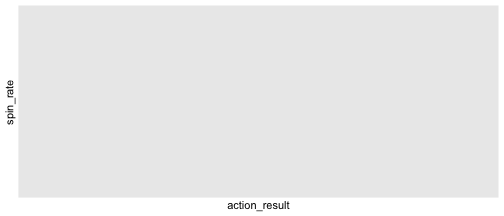
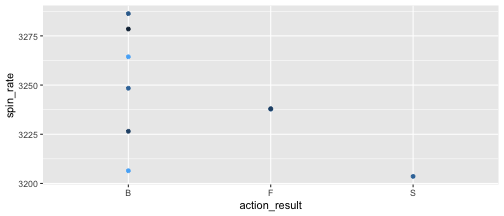
Final changes

diff --git a/03-r-format/knitr/2-dplyr.html b/03-r-format/knitr/2-dplyr.html
@@ -113,7 +113,7 @@ hint: what is the default first argument of the `ggplot` function?
 
 ```r
   pitch %&gt;%
-  filter(spin_rate &gt;= 3300 &amp; pitcher_hand == "L") %&gt;%
+  filter(spin_rate &gt;= 3200 &amp; pitcher_hand == "L") %&gt;%
   ggplot(aes(x=action_result, y=spin_rate)) +
   geom_point(aes(color=playerid)) +
   theme(legend.position = "none")
@@ -129,13 +129,13 @@ hint: what is the default first argument of the `ggplot` function?
 ```r
 library(rbokeh)
  pitch %&gt;%
-  filter(spin_rate &gt;= 3300 &amp; pitcher_hand == "L") %&gt;%
+  filter(spin_rate &gt;= 3200 &amp; pitcher_hand == "L") %&gt;%
   figure() %&gt;%
   ly_points(x = action_result, y = spin_rate, color = playerid, hover = list(playerid, spin_rate, action_result), legend = FALSE) 
 ```
 
-<div id="htmlwidget-50c95fccf3ca90615649" style="width:504px;height:216px;" class="rbokeh html-widget"></div>
-<script type="application/json" data-for="htmlwidget-50c95fccf3ca90615649">{"x":null,"evals":[],"jsHooks":null}</script>
+<div id="htmlwidget-5309a80da70cfbc3d3df" style="width:504px;height:216px;" class="rbokeh html-widget"></div>
+<script type="application/json" data-for="htmlwidget-5309a80da70cfbc3d3df">{"x":{"elementid":"eb458211ed0d55275566c581138f8029","modeltype":"Plot","modelid":"7fc3effddfe546da842b5af3e5a1fc8d","docid":"4b37f0f3193c4c9b37ba51dcf6a5d07b","docs_json":{"4b37f0f3193c4c9b37ba51dcf6a5d07b":{"version":"0.12.5","title":"Bokeh Figure","roots":{"root_ids":["7fc3effddfe546da842b5af3e5a1fc8d"],"references":[{"type":"Plot","id":"7fc3effddfe546da842b5af3e5a1fc8d","attributes":{"id":"7fc3effddfe546da842b5af3e5a1fc8d","sizing_mode":"scale_both","x_range":{"type":"FactorRange","id":"18a0e67de596b7c22d99cb490d3981d7"},"y_range":{"type":"Range1d","id":"1a30386c553e7b6dc0712c0866a2fde3"},"left":[{"type":"LinearAxis","id":"e4358ced8cdf5b41810e7848925d7b98"}],"below":[{"type":"CategoricalAxis","id":"57cad60353505f6a4f39a8a3952ddd4d"}],"right":[],"above":[],"renderers":[{"type":"BoxAnnotation","id":"aec164a9e0f26ebfc42e8b7b5a164f25"},{"type":"GlyphRenderer","id":"5bd5461777a06aeae013e403e9f55070"},{"type":"CategoricalAxis","id":"57cad60353505f6a4f39a8a3952ddd4d"},{"type":"Grid","id":"d0053d54f2a198eea1889f05452c9f02"},{"type":"LinearAxis","id":"e4358ced8cdf5b41810e7848925d7b98"},{"type":"Grid","id":"151b50da6f7c31acc74743e2a63875a4"}],"extra_y_ranges":{},"extra_x_ranges":{},"tags":[],"min_border_left":4,"min_border_right":4,"min_border_top":4,"min_border_bottom":4,"lod_threshold":null,"toolbar":{"type":"Toolbar","id":"212be27681d58a568cafe99e520b06b1"},"tool_events":{"type":"ToolEvents","id":"2c8d72b5e337cb4dd364aa39ea4944cb"}},"subtype":"Figure"},{"type":"Toolbar","id":"212be27681d58a568cafe99e520b06b1","attributes":{"id":"212be27681d58a568cafe99e520b06b1","tags":[],"active_drag":"auto","active_scroll":"auto","active_tap":"auto","tools":[{"type":"PanTool","id":"2817d9662645c2636ded2ff26a74027b"},{"type":"WheelZoomTool","id":"09c993145643d748bf0d31b0922b5902"},{"type":"BoxZoomTool","id":"6c880ddc0c406c2feeb75d9943d4c6eb"},{"type":"ResetTool","id":"73e5b292046e60d39e29dd3ade144fbf"},{"type":"SaveTool","id":"57e7ae25249de037208d72aff8e27bf1"},{"type":"HelpTool","id":"58fc932297d0f9113d48170b912d4927"},{"type":"HoverTool","id":"45f02855ac5a7276f54ae4e0bd510058"}],"logo":null}},{"type":"PanTool","id":"2817d9662645c2636ded2ff26a74027b","attributes":{"id":"2817d9662645c2636ded2ff26a74027b","tags":[],"plot":{"type":"Plot","id":"7fc3effddfe546da842b5af3e5a1fc8d","subtype":"Figure"},"dimensions":"both"}},{"type":"ToolEvents","id":"2c8d72b5e337cb4dd364aa39ea4944cb","attributes":{"id":"2c8d72b5e337cb4dd364aa39ea4944cb","tags":[]},"geometries":[]},{"type":"WheelZoomTool","id":"09c993145643d748bf0d31b0922b5902","attributes":{"id":"09c993145643d748bf0d31b0922b5902","tags":[],"plot":{"type":"Plot","id":"7fc3effddfe546da842b5af3e5a1fc8d","subtype":"Figure"},"dimensions":"both"}},{"type":"BoxAnnotation","id":"aec164a9e0f26ebfc42e8b7b5a164f25","attributes":{"id":"aec164a9e0f26ebfc42e8b7b5a164f25","tags":[],"line_color":{"units":"data","value":"black"},"line_alpha":{"units":"data","value":1},"fill_color":{"units":"data","value":"lightgrey"},"fill_alpha":{"units":"data","value":0.5},"line_dash":[4,4],"line_width":{"units":"data","value":2},"level":"overlay","top_units":"screen","bottom_units":"screen","left_units":"screen","right_units":"screen","render_mode":"css"}},{"type":"BoxZoomTool","id":"6c880ddc0c406c2feeb75d9943d4c6eb","attributes":{"id":"6c880ddc0c406c2feeb75d9943d4c6eb","tags":[],"plot":{"type":"Plot","id":"7fc3effddfe546da842b5af3e5a1fc8d","subtype":"Figure"},"overlay":{"type":"BoxAnnotation","id":"aec164a9e0f26ebfc42e8b7b5a164f25"}}},{"type":"ResetTool","id":"73e5b292046e60d39e29dd3ade144fbf","attributes":{"id":"73e5b292046e60d39e29dd3ade144fbf","tags":[],"plot":{"type":"Plot","id":"7fc3effddfe546da842b5af3e5a1fc8d","subtype":"Figure"}}},{"type":"SaveTool","id":"57e7ae25249de037208d72aff8e27bf1","attributes":{"id":"57e7ae25249de037208d72aff8e27bf1","tags":[],"plot":{"type":"Plot","id":"7fc3effddfe546da842b5af3e5a1fc8d","subtype":"Figure"}}},{"type":"HelpTool","id":"58fc932297d0f9113d48170b912d4927","attributes":{"id":"58fc932297d0f9113d48170b912d4927","tags":[],"plot":{"type":"Plot","id":"7fc3effddfe546da842b5af3e5a1fc8d","subtype":"Figure"},"redirect":"https://hafen.github.io/rbokeh/","help_tooltip":"Click to learn more about rbokeh."}},{"type":"HoverTool","id":"45f02855ac5a7276f54ae4e0bd510058","attributes":{"id":"45f02855ac5a7276f54ae4e0bd510058","tags":[],"plot":{"type":"Plot","id":"7fc3effddfe546da842b5af3e5a1fc8d","subtype":"Figure"},"renderers":[{"type":"GlyphRenderer","id":"5bd5461777a06aeae013e403e9f55070"}],"names":[],"anchor":"center","attachment":"horizontal","line_policy":"prev","mode":"mouse","point_policy":"snap_to_data","tooltips":[["playerid","@hover_col_1"],["spin_rate","@hover_col_2"],["action_result","@hover_col_3"]]}},{"type":"ColumnDataSource","id":"d1dd43101b85fe58581fcc5ce4696eb4","attributes":{"id":"d1dd43101b85fe58581fcc5ce4696eb4","tags":[],"column_names":["x","y","line_color","fill_color","hover_col_1","hover_col_2","hover_col_3"],"selected":[],"data":{"x":["B","B","S","F","B","F","B","B","B"],"y":[3286.313,3248.3821,3203.5969,3237.7629,3278.4861,3237.9861,3226.5071,3206.4629,3264.386],"line_color":["#238B45","#0B7734","#0B7734","#0B7734","#66C2A4","#37A265","#37A265","#00441B","#00441B"],"fill_color":["#238B45","#0B7734","#0B7734","#0B7734","#66C2A4","#37A265","#37A265","#00441B","#00441B"],"hover_col_1":[" 7291"," 8247"," 8247"," 8247","  607"," 4629"," 4629","13586","13586"],"hover_col_2":["3286.313","3248.382","3203.597","3237.763","3278.486","3237.986","3226.507","3206.463","3264.386"],"hover_col_3":["B","B","S","F","B","F","B","B","B"]}}},{"type":"Circle","id":"de3cc4a9888b8dd9f56ce54f2cd5cd37","attributes":{"id":"de3cc4a9888b8dd9f56ce54f2cd5cd37","tags":[],"size":{"units":"screen","value":10},"line_alpha":{"units":"data","value":1},"fill_alpha":{"units":"data","value":0.5},"x":{"units":"data","field":"x"},"y":{"units":"data","field":"y"},"line_color":{"units":"data","field":"line_color"},"fill_color":{"units":"data","field":"fill_color"}}},{"type":"Circle","id":"f7754df41d1e00cedd1052e621f2d6bd","attributes":{"id":"f7754df41d1e00cedd1052e621f2d6bd","tags":[],"size":{"units":"screen","value":10},"line_alpha":{"units":"data","value":1},"fill_alpha":{"units":"data","value":0.5},"x":{"units":"data","field":"x"},"y":{"units":"data","field":"y"},"line_color":{"units":"data","value":"#e1e1e1"},"fill_color":{"units":"data","value":"#e1e1e1"}}},{"type":"Circle","id":"ab4373c69fbf11797261b382eee563ad","attributes":{"id":"ab4373c69fbf11797261b382eee563ad","tags":[],"size":{"units":"screen","value":10},"line_alpha":{"units":"data","value":1},"fill_alpha":{"units":"data","value":1},"x":{"units":"data","field":"x"},"y":{"units":"data","field":"y"},"line_color":{"units":"data","field":"line_color"},"fill_color":{"units":"data","field":"fill_color"}}},{"type":"GlyphRenderer","id":"5bd5461777a06aeae013e403e9f55070","attributes":{"id":"5bd5461777a06aeae013e403e9f55070","tags":[],"selection_glyph":null,"nonselection_glyph":{"type":"Circle","id":"f7754df41d1e00cedd1052e621f2d6bd"},"hover_glyph":{"type":"Circle","id":"ab4373c69fbf11797261b382eee563ad"},"name":null,"data_source":{"type":"ColumnDataSource","id":"d1dd43101b85fe58581fcc5ce4696eb4"},"glyph":{"type":"Circle","id":"de3cc4a9888b8dd9f56ce54f2cd5cd37"}}},{"type":"FactorRange","id":"18a0e67de596b7c22d99cb490d3981d7","attributes":{"id":"18a0e67de596b7c22d99cb490d3981d7","tags":[],"factors":["B","F","S"]}},{"type":"Range1d","id":"1a30386c553e7b6dc0712c0866a2fde3","attributes":{"id":"1a30386c553e7b6dc0712c0866a2fde3","tags":[],"start":3197.806773,"end":3292.103127}},{"type":"CategoricalAxis","id":"57cad60353505f6a4f39a8a3952ddd4d","attributes":{"id":"57cad60353505f6a4f39a8a3952ddd4d","tags":[],"plot":{"type":"Plot","id":"7fc3effddfe546da842b5af3e5a1fc8d","subtype":"Figure"},"axis_label":"action_result","formatter":{"type":"CategoricalTickFormatter","id":"cf40d64c012564956c255787ab868536"},"ticker":{"type":"CategoricalTicker","id":"b7dc5773fb2258ab68afdddc25d0c5d6"},"visible":true,"axis_label_text_font_size":"12pt"}},{"type":"CategoricalTickFormatter","id":"cf40d64c012564956c255787ab868536","attributes":{"id":"cf40d64c012564956c255787ab868536","tags":[]}},{"type":"CategoricalTicker","id":"b7dc5773fb2258ab68afdddc25d0c5d6","attributes":{"id":"b7dc5773fb2258ab68afdddc25d0c5d6","tags":[]}},{"type":"Grid","id":"d0053d54f2a198eea1889f05452c9f02","attributes":{"id":"d0053d54f2a198eea1889f05452c9f02","tags":[],"dimension":0,"plot":{"type":"Plot","id":"7fc3effddfe546da842b5af3e5a1fc8d","subtype":"Figure"},"ticker":{"type":"CategoricalTicker","id":"b7dc5773fb2258ab68afdddc25d0c5d6"}}},{"type":"LinearAxis","id":"e4358ced8cdf5b41810e7848925d7b98","attributes":{"id":"e4358ced8cdf5b41810e7848925d7b98","tags":[],"plot":{"type":"Plot","id":"7fc3effddfe546da842b5af3e5a1fc8d","subtype":"Figure"},"axis_label":"spin_rate","formatter":{"type":"BasicTickFormatter","id":"f84364d2d25a43acad6eec412783bb8a"},"ticker":{"type":"BasicTicker","id":"d386bab4cec657383e1e1b0fafbfd417"},"visible":true,"axis_label_text_font_size":"12pt"}},{"type":"BasicTickFormatter","id":"f84364d2d25a43acad6eec412783bb8a","attributes":{"id":"f84364d2d25a43acad6eec412783bb8a","tags":[]}},{"type":"BasicTicker","id":"d386bab4cec657383e1e1b0fafbfd417","attributes":{"id":"d386bab4cec657383e1e1b0fafbfd417","tags":[],"num_minor_ticks":5}},{"type":"Grid","id":"151b50da6f7c31acc74743e2a63875a4","attributes":{"id":"151b50da6f7c31acc74743e2a63875a4","tags":[],"dimension":1,"plot":{"type":"Plot","id":"7fc3effddfe546da842b5af3e5a1fc8d","subtype":"Figure"},"ticker":{"type":"BasicTicker","id":"d386bab4cec657383e1e1b0fafbfd417"}}}]}}},"debug":false},"evals":[],"jsHooks":[]}</script>
 
 ---
 
@@ -400,7 +400,7 @@ pitch %&gt;%
 
 ---
 
-## Caution with pip operator
+## Caution with pipe operator
 
 Why does 
 
@@ -561,8 +561,8 @@ figure() %&gt;%
             legend = FALSE)
 ```
 
-<div id="htmlwidget-6a41930a7b18b4e9a807" style="width:504px;height:216px;" class="rbokeh html-widget"></div>
-<script type="application/json" data-for="htmlwidget-6a41930a7b18b4e9a807">{"x":{"elementid":"3a79f523326b62ea38781231771a2b13","modeltype":"Plot","modelid":"0d13a62949d6ef35e39e83eea517171b","docid":"b0b7d6717cf768ef54191d6c63213f8a","docs_json":{"b0b7d6717cf768ef54191d6c63213f8a":{"version":"0.12.5","title":"Bokeh Figure","roots":{"root_ids":["0d13a62949d6ef35e39e83eea517171b"],"references":[{"type":"Plot","id":"0d13a62949d6ef35e39e83eea517171b","attributes":{"id":"0d13a62949d6ef35e39e83eea517171b","sizing_mode":"scale_both","x_range":{"type":"Range1d","id":"b896fae42bf78867c67e4cfa25cabe9f"},"y_range":{"type":"Range1d","id":"7697fac9959d18dc6d8d60d2248c1c87"},"left":[{"type":"LinearAxis","id":"5706bb902d93b055f17ca87f837750c4"}],"below":[{"type":"LinearAxis","id":"98e9199dab99b8cfc51b4c4323ad16a3"}],"right":[],"above":[],"renderers":[{"type":"BoxAnnotation","id":"313ef485983cefd04f3d9c78f6a41921"},{"type":"GlyphRenderer","id":"56630eac3eb3ac26bdeb96b7526faf38"},{"type":"LinearAxis","id":"98e9199dab99b8cfc51b4c4323ad16a3"},{"type":"Grid","id":"e86653b9c3c8bc0c21124e5bd27631a9"},{"type":"LinearAxis","id":"5706bb902d93b055f17ca87f837750c4"},{"type":"Grid","id":"5448eb647c75b5625589c6f5306324f5"}],"extra_y_ranges":{},"extra_x_ranges":{},"tags":[],"min_border_left":4,"min_border_right":4,"min_border_top":4,"min_border_bottom":4,"lod_threshold":null,"toolbar":{"type":"Toolbar","id":"7c1b07a6ceb9558de9a5c14356a63c90"},"tool_events":{"type":"ToolEvents","id":"10a6403d4a40a392b90acc400b7b1685"}},"subtype":"Figure"},{"type":"Toolbar","id":"7c1b07a6ceb9558de9a5c14356a63c90","attributes":{"id":"7c1b07a6ceb9558de9a5c14356a63c90","tags":[],"active_drag":"auto","active_scroll":"auto","active_tap":"auto","tools":[{"type":"PanTool","id":"887def7142c8c38a102078cf5e2744f7"},{"type":"WheelZoomTool","id":"80e4988225df0ae4c3706638ea913d10"},{"type":"BoxZoomTool","id":"5d132ceffc2010b51d936371e16a4811"},{"type":"ResetTool","id":"cca6b03e54ab3cf3fb7c055946b806c9"},{"type":"SaveTool","id":"51f52fee9c9debd6067d66e332d594c4"},{"type":"HelpTool","id":"7a74b26b3f93a6e855c563eb1beefb6d"},{"type":"HoverTool","id":"d14a475b91037a3094563f6d5105378b"}],"logo":null}},{"type":"PanTool","id":"887def7142c8c38a102078cf5e2744f7","attributes":{"id":"887def7142c8c38a102078cf5e2744f7","tags":[],"plot":{"type":"Plot","id":"0d13a62949d6ef35e39e83eea517171b","subtype":"Figure"},"dimensions":"both"}},{"type":"ToolEvents","id":"10a6403d4a40a392b90acc400b7b1685","attributes":{"id":"10a6403d4a40a392b90acc400b7b1685","tags":[]},"geometries":[]},{"type":"WheelZoomTool","id":"80e4988225df0ae4c3706638ea913d10","attributes":{"id":"80e4988225df0ae4c3706638ea913d10","tags":[],"plot":{"type":"Plot","id":"0d13a62949d6ef35e39e83eea517171b","subtype":"Figure"},"dimensions":"both"}},{"type":"BoxAnnotation","id":"313ef485983cefd04f3d9c78f6a41921","attributes":{"id":"313ef485983cefd04f3d9c78f6a41921","tags":[],"line_color":{"units":"data","value":"black"},"line_alpha":{"units":"data","value":1},"fill_color":{"units":"data","value":"lightgrey"},"fill_alpha":{"units":"data","value":0.5},"line_dash":[4,4],"line_width":{"units":"data","value":2},"level":"overlay","top_units":"screen","bottom_units":"screen","left_units":"screen","right_units":"screen","render_mode":"css"}},{"type":"BoxZoomTool","id":"5d132ceffc2010b51d936371e16a4811","attributes":{"id":"5d132ceffc2010b51d936371e16a4811","tags":[],"plot":{"type":"Plot","id":"0d13a62949d6ef35e39e83eea517171b","subtype":"Figure"},"overlay":{"type":"BoxAnnotation","id":"313ef485983cefd04f3d9c78f6a41921"}}},{"type":"ResetTool","id":"cca6b03e54ab3cf3fb7c055946b806c9","attributes":{"id":"cca6b03e54ab3cf3fb7c055946b806c9","tags":[],"plot":{"type":"Plot","id":"0d13a62949d6ef35e39e83eea517171b","subtype":"Figure"}}},{"type":"SaveTool","id":"51f52fee9c9debd6067d66e332d594c4","attributes":{"id":"51f52fee9c9debd6067d66e332d594c4","tags":[],"plot":{"type":"Plot","id":"0d13a62949d6ef35e39e83eea517171b","subtype":"Figure"}}},{"type":"HelpTool","id":"7a74b26b3f93a6e855c563eb1beefb6d","attributes":{"id":"7a74b26b3f93a6e855c563eb1beefb6d","tags":[],"plot":{"type":"Plot","id":"0d13a62949d6ef35e39e83eea517171b","subtype":"Figure"},"redirect":"https://hafen.github.io/rbokeh/","help_tooltip":"Click to learn more about rbokeh."}},{"type":"HoverTool","id":"d14a475b91037a3094563f6d5105378b","attributes":{"id":"d14a475b91037a3094563f6d5105378b","tags":[],"plot":{"type":"Plot","id":"0d13a62949d6ef35e39e83eea517171b","subtype":"Figure"},"renderers":[{"type":"GlyphRenderer","id":"56630eac3eb3ac26bdeb96b7526faf38"}],"names":[],"anchor":"center","attachment":"horizontal","line_policy":"prev","mode":"mouse","point_policy":"snap_to_data","tooltips":[["playerid","@hover_col_1"],["totalSSCU","@hover_col_2"],["percentSSCU","@hover_col_3"]]}},{"type":"ColumnDataSource","id":"f27e9265a947b5605a8c2e796ada5105","attributes":{"id":"f27e9265a947b5605a8c2e796ada5105","tags":[],"column_names":["x","y","line_color","fill_color","hover_col_1","hover_col_2","hover_col_3"],"selected":[],"data":{"x":[0.666666666666667,0.634615384615385,0.621848739495798,0.603351955307263,0.543814432989691,0.53030303030303],"y":[60,66,74,108,211,70],"line_color":["#66C2A4","#3CA96F","#50B689","#05712F","#00441B","#50B689"],"fill_color":["#66C2A4","#3CA96F","#50B689","#05712F","#00441B","#50B689"],"hover_col_1":[" 1030"," 4878"," 2850","10045","14344"," 3138"],"hover_col_2":[" 60"," 66"," 74","108","211"," 70"],"hover_col_3":["0.6666667","0.6346154","0.6218487","0.6033520","0.5438144","0.5303030"]}}},{"type":"Circle","id":"2a086160ce68d0e68fd2391890c6cce1","attributes":{"id":"2a086160ce68d0e68fd2391890c6cce1","tags":[],"size":{"units":"screen","value":10},"line_alpha":{"units":"data","value":1},"fill_alpha":{"units":"data","value":0.5},"x":{"units":"data","field":"x"},"y":{"units":"data","field":"y"},"line_color":{"units":"data","field":"line_color"},"fill_color":{"units":"data","field":"fill_color"}}},{"type":"Circle","id":"224856d955035f9d6b0b313e856b2d99","attributes":{"id":"224856d955035f9d6b0b313e856b2d99","tags":[],"size":{"units":"screen","value":10},"line_alpha":{"units":"data","value":1},"fill_alpha":{"units":"data","value":0.5},"x":{"units":"data","field":"x"},"y":{"units":"data","field":"y"},"line_color":{"units":"data","value":"#e1e1e1"},"fill_color":{"units":"data","value":"#e1e1e1"}}},{"type":"Circle","id":"6230769c3400ab62bffdd2e870db58bb","attributes":{"id":"6230769c3400ab62bffdd2e870db58bb","tags":[],"size":{"units":"screen","value":10},"line_alpha":{"units":"data","value":1},"fill_alpha":{"units":"data","value":1},"x":{"units":"data","field":"x"},"y":{"units":"data","field":"y"},"line_color":{"units":"data","field":"line_color"},"fill_color":{"units":"data","field":"fill_color"}}},{"type":"GlyphRenderer","id":"56630eac3eb3ac26bdeb96b7526faf38","attributes":{"id":"56630eac3eb3ac26bdeb96b7526faf38","tags":[],"selection_glyph":null,"nonselection_glyph":{"type":"Circle","id":"224856d955035f9d6b0b313e856b2d99"},"hover_glyph":{"type":"Circle","id":"6230769c3400ab62bffdd2e870db58bb"},"name":null,"data_source":{"type":"ColumnDataSource","id":"f27e9265a947b5605a8c2e796ada5105"},"glyph":{"type":"Circle","id":"2a086160ce68d0e68fd2391890c6cce1"}}},{"type":"Range1d","id":"b896fae42bf78867c67e4cfa25cabe9f","attributes":{"id":"b896fae42bf78867c67e4cfa25cabe9f","tags":[],"start":0.520757575757576,"end":0.676212121212121}},{"type":"Range1d","id":"7697fac9959d18dc6d8d60d2248c1c87","attributes":{"id":"7697fac9959d18dc6d8d60d2248c1c87","tags":[],"start":49.43,"end":221.57}},{"type":"LinearAxis","id":"98e9199dab99b8cfc51b4c4323ad16a3","attributes":{"id":"98e9199dab99b8cfc51b4c4323ad16a3","tags":[],"plot":{"type":"Plot","id":"0d13a62949d6ef35e39e83eea517171b","subtype":"Figure"},"axis_label":"percentSSCU","formatter":{"type":"BasicTickFormatter","id":"06939d15da54e4707e96b530af8d1b1a"},"ticker":{"type":"BasicTicker","id":"7f8070580a30aa1ec681ed93105bc1dc"},"visible":true,"axis_label_text_font_size":"12pt"}},{"type":"BasicTickFormatter","id":"06939d15da54e4707e96b530af8d1b1a","attributes":{"id":"06939d15da54e4707e96b530af8d1b1a","tags":[]}},{"type":"BasicTicker","id":"7f8070580a30aa1ec681ed93105bc1dc","attributes":{"id":"7f8070580a30aa1ec681ed93105bc1dc","tags":[],"num_minor_ticks":5}},{"type":"Grid","id":"e86653b9c3c8bc0c21124e5bd27631a9","attributes":{"id":"e86653b9c3c8bc0c21124e5bd27631a9","tags":[],"dimension":0,"plot":{"type":"Plot","id":"0d13a62949d6ef35e39e83eea517171b","subtype":"Figure"},"ticker":{"type":"BasicTicker","id":"7f8070580a30aa1ec681ed93105bc1dc"}}},{"type":"LinearAxis","id":"5706bb902d93b055f17ca87f837750c4","attributes":{"id":"5706bb902d93b055f17ca87f837750c4","tags":[],"plot":{"type":"Plot","id":"0d13a62949d6ef35e39e83eea517171b","subtype":"Figure"},"axis_label":"totalSSCU","formatter":{"type":"BasicTickFormatter","id":"2bd2ad1b87b7a26c3216f86caf2ef14b"},"ticker":{"type":"BasicTicker","id":"7755222b34e96260368471c624447582"},"visible":true,"axis_label_text_font_size":"12pt"}},{"type":"BasicTickFormatter","id":"2bd2ad1b87b7a26c3216f86caf2ef14b","attributes":{"id":"2bd2ad1b87b7a26c3216f86caf2ef14b","tags":[]}},{"type":"BasicTicker","id":"7755222b34e96260368471c624447582","attributes":{"id":"7755222b34e96260368471c624447582","tags":[],"num_minor_ticks":5}},{"type":"Grid","id":"5448eb647c75b5625589c6f5306324f5","attributes":{"id":"5448eb647c75b5625589c6f5306324f5","tags":[],"dimension":1,"plot":{"type":"Plot","id":"0d13a62949d6ef35e39e83eea517171b","subtype":"Figure"},"ticker":{"type":"BasicTicker","id":"7755222b34e96260368471c624447582"}}}]}}},"debug":false},"evals":[],"jsHooks":[]}</script>
+<div id="htmlwidget-2c902950498c73fc69e4" style="width:504px;height:216px;" class="rbokeh html-widget"></div>
+<script type="application/json" data-for="htmlwidget-2c902950498c73fc69e4">{"x":{"elementid":"66c53ced6298bf5a152c009e08717d58","modeltype":"Plot","modelid":"27bc7318b883398b485e5d5454f73cb8","docid":"782167e567e5c70d99e36d0ea6e908bc","docs_json":{"782167e567e5c70d99e36d0ea6e908bc":{"version":"0.12.5","title":"Bokeh Figure","roots":{"root_ids":["27bc7318b883398b485e5d5454f73cb8"],"references":[{"type":"Plot","id":"27bc7318b883398b485e5d5454f73cb8","attributes":{"id":"27bc7318b883398b485e5d5454f73cb8","sizing_mode":"scale_both","x_range":{"type":"Range1d","id":"1a208dfae2b337b7b30373d9127e3d8c"},"y_range":{"type":"Range1d","id":"8734987c46c0b002d1f5ff5b1809e065"},"left":[{"type":"LinearAxis","id":"c0a984038f931a4bb61b82f5950ebdd3"}],"below":[{"type":"LinearAxis","id":"736dd47c1bc1a667eb02c855e7db9c8a"}],"right":[],"above":[],"renderers":[{"type":"BoxAnnotation","id":"dc95b77e3d96d74cc6270367ca5d12a0"},{"type":"GlyphRenderer","id":"b159bc00d7b4c9f93c331b26a12bba4a"},{"type":"LinearAxis","id":"736dd47c1bc1a667eb02c855e7db9c8a"},{"type":"Grid","id":"a94755baf30577e265a87db06d6768e5"},{"type":"LinearAxis","id":"c0a984038f931a4bb61b82f5950ebdd3"},{"type":"Grid","id":"6f0753735467e680d8ec3fc94b152f11"}],"extra_y_ranges":{},"extra_x_ranges":{},"tags":[],"min_border_left":4,"min_border_right":4,"min_border_top":4,"min_border_bottom":4,"lod_threshold":null,"toolbar":{"type":"Toolbar","id":"987c39236d7c2dca3848c9bca7761fe7"},"tool_events":{"type":"ToolEvents","id":"e48953b5b6ef1f4205a50e49e61727c5"}},"subtype":"Figure"},{"type":"Toolbar","id":"987c39236d7c2dca3848c9bca7761fe7","attributes":{"id":"987c39236d7c2dca3848c9bca7761fe7","tags":[],"active_drag":"auto","active_scroll":"auto","active_tap":"auto","tools":[{"type":"PanTool","id":"6bcea110f17e2fe95022622be618a1db"},{"type":"WheelZoomTool","id":"7c44cd5f2147a2c49ed43947f576b93a"},{"type":"BoxZoomTool","id":"cb7c20642a53f191833667cf46fee123"},{"type":"ResetTool","id":"9986aa4258f636b0d80d5d4bc51f679e"},{"type":"SaveTool","id":"e53bd6064d75812fe6526cf310f2e434"},{"type":"HelpTool","id":"8a07e651a4d545ea8821bd4d68c4f4c0"},{"type":"HoverTool","id":"babeccf7e7d20e060c6d283854e78e7a"}],"logo":null}},{"type":"PanTool","id":"6bcea110f17e2fe95022622be618a1db","attributes":{"id":"6bcea110f17e2fe95022622be618a1db","tags":[],"plot":{"type":"Plot","id":"27bc7318b883398b485e5d5454f73cb8","subtype":"Figure"},"dimensions":"both"}},{"type":"ToolEvents","id":"e48953b5b6ef1f4205a50e49e61727c5","attributes":{"id":"e48953b5b6ef1f4205a50e49e61727c5","tags":[]},"geometries":[]},{"type":"WheelZoomTool","id":"7c44cd5f2147a2c49ed43947f576b93a","attributes":{"id":"7c44cd5f2147a2c49ed43947f576b93a","tags":[],"plot":{"type":"Plot","id":"27bc7318b883398b485e5d5454f73cb8","subtype":"Figure"},"dimensions":"both"}},{"type":"BoxAnnotation","id":"dc95b77e3d96d74cc6270367ca5d12a0","attributes":{"id":"dc95b77e3d96d74cc6270367ca5d12a0","tags":[],"line_color":{"units":"data","value":"black"},"line_alpha":{"units":"data","value":1},"fill_color":{"units":"data","value":"lightgrey"},"fill_alpha":{"units":"data","value":0.5},"line_dash":[4,4],"line_width":{"units":"data","value":2},"level":"overlay","top_units":"screen","bottom_units":"screen","left_units":"screen","right_units":"screen","render_mode":"css"}},{"type":"BoxZoomTool","id":"cb7c20642a53f191833667cf46fee123","attributes":{"id":"cb7c20642a53f191833667cf46fee123","tags":[],"plot":{"type":"Plot","id":"27bc7318b883398b485e5d5454f73cb8","subtype":"Figure"},"overlay":{"type":"BoxAnnotation","id":"dc95b77e3d96d74cc6270367ca5d12a0"}}},{"type":"ResetTool","id":"9986aa4258f636b0d80d5d4bc51f679e","attributes":{"id":"9986aa4258f636b0d80d5d4bc51f679e","tags":[],"plot":{"type":"Plot","id":"27bc7318b883398b485e5d5454f73cb8","subtype":"Figure"}}},{"type":"SaveTool","id":"e53bd6064d75812fe6526cf310f2e434","attributes":{"id":"e53bd6064d75812fe6526cf310f2e434","tags":[],"plot":{"type":"Plot","id":"27bc7318b883398b485e5d5454f73cb8","subtype":"Figure"}}},{"type":"HelpTool","id":"8a07e651a4d545ea8821bd4d68c4f4c0","attributes":{"id":"8a07e651a4d545ea8821bd4d68c4f4c0","tags":[],"plot":{"type":"Plot","id":"27bc7318b883398b485e5d5454f73cb8","subtype":"Figure"},"redirect":"https://hafen.github.io/rbokeh/","help_tooltip":"Click to learn more about rbokeh."}},{"type":"HoverTool","id":"babeccf7e7d20e060c6d283854e78e7a","attributes":{"id":"babeccf7e7d20e060c6d283854e78e7a","tags":[],"plot":{"type":"Plot","id":"27bc7318b883398b485e5d5454f73cb8","subtype":"Figure"},"renderers":[{"type":"GlyphRenderer","id":"b159bc00d7b4c9f93c331b26a12bba4a"}],"names":[],"anchor":"center","attachment":"horizontal","line_policy":"prev","mode":"mouse","point_policy":"snap_to_data","tooltips":[["playerid","@hover_col_1"],["totalSSCU","@hover_col_2"],["percentSSCU","@hover_col_3"]]}},{"type":"ColumnDataSource","id":"f059a816f20f4d226fee1ec2a6bd532b","attributes":{"id":"f059a816f20f4d226fee1ec2a6bd532b","tags":[],"column_names":["x","y","line_color","fill_color","hover_col_1","hover_col_2","hover_col_3"],"selected":[],"data":{"x":[0.666666666666667,0.634615384615385,0.621848739495798,0.603351955307263,0.543814432989691,0.53030303030303],"y":[60,66,74,108,211,70],"line_color":["#66C2A4","#3CA96F","#50B689","#05712F","#00441B","#50B689"],"fill_color":["#66C2A4","#3CA96F","#50B689","#05712F","#00441B","#50B689"],"hover_col_1":[" 1030"," 4878"," 2850","10045","14344"," 3138"],"hover_col_2":[" 60"," 66"," 74","108","211"," 70"],"hover_col_3":["0.6666667","0.6346154","0.6218487","0.6033520","0.5438144","0.5303030"]}}},{"type":"Circle","id":"a888dceab7b13dbf1087d6cddbe6a6b9","attributes":{"id":"a888dceab7b13dbf1087d6cddbe6a6b9","tags":[],"size":{"units":"screen","value":10},"line_alpha":{"units":"data","value":1},"fill_alpha":{"units":"data","value":0.5},"x":{"units":"data","field":"x"},"y":{"units":"data","field":"y"},"line_color":{"units":"data","field":"line_color"},"fill_color":{"units":"data","field":"fill_color"}}},{"type":"Circle","id":"3f623b107173d4cb44f38495738c33ae","attributes":{"id":"3f623b107173d4cb44f38495738c33ae","tags":[],"size":{"units":"screen","value":10},"line_alpha":{"units":"data","value":1},"fill_alpha":{"units":"data","value":0.5},"x":{"units":"data","field":"x"},"y":{"units":"data","field":"y"},"line_color":{"units":"data","value":"#e1e1e1"},"fill_color":{"units":"data","value":"#e1e1e1"}}},{"type":"Circle","id":"69e88dca5a835ce6b26376340a26c0e5","attributes":{"id":"69e88dca5a835ce6b26376340a26c0e5","tags":[],"size":{"units":"screen","value":10},"line_alpha":{"units":"data","value":1},"fill_alpha":{"units":"data","value":1},"x":{"units":"data","field":"x"},"y":{"units":"data","field":"y"},"line_color":{"units":"data","field":"line_color"},"fill_color":{"units":"data","field":"fill_color"}}},{"type":"GlyphRenderer","id":"b159bc00d7b4c9f93c331b26a12bba4a","attributes":{"id":"b159bc00d7b4c9f93c331b26a12bba4a","tags":[],"selection_glyph":null,"nonselection_glyph":{"type":"Circle","id":"3f623b107173d4cb44f38495738c33ae"},"hover_glyph":{"type":"Circle","id":"69e88dca5a835ce6b26376340a26c0e5"},"name":null,"data_source":{"type":"ColumnDataSource","id":"f059a816f20f4d226fee1ec2a6bd532b"},"glyph":{"type":"Circle","id":"a888dceab7b13dbf1087d6cddbe6a6b9"}}},{"type":"Range1d","id":"1a208dfae2b337b7b30373d9127e3d8c","attributes":{"id":"1a208dfae2b337b7b30373d9127e3d8c","tags":[],"start":0.520757575757576,"end":0.676212121212121}},{"type":"Range1d","id":"8734987c46c0b002d1f5ff5b1809e065","attributes":{"id":"8734987c46c0b002d1f5ff5b1809e065","tags":[],"start":49.43,"end":221.57}},{"type":"LinearAxis","id":"736dd47c1bc1a667eb02c855e7db9c8a","attributes":{"id":"736dd47c1bc1a667eb02c855e7db9c8a","tags":[],"plot":{"type":"Plot","id":"27bc7318b883398b485e5d5454f73cb8","subtype":"Figure"},"axis_label":"percentSSCU","formatter":{"type":"BasicTickFormatter","id":"efe8f925180ffb53250855b34c8fe60f"},"ticker":{"type":"BasicTicker","id":"0c370e006eee88622c1427792bfd1dce"},"visible":true,"axis_label_text_font_size":"12pt"}},{"type":"BasicTickFormatter","id":"efe8f925180ffb53250855b34c8fe60f","attributes":{"id":"efe8f925180ffb53250855b34c8fe60f","tags":[]}},{"type":"BasicTicker","id":"0c370e006eee88622c1427792bfd1dce","attributes":{"id":"0c370e006eee88622c1427792bfd1dce","tags":[],"num_minor_ticks":5}},{"type":"Grid","id":"a94755baf30577e265a87db06d6768e5","attributes":{"id":"a94755baf30577e265a87db06d6768e5","tags":[],"dimension":0,"plot":{"type":"Plot","id":"27bc7318b883398b485e5d5454f73cb8","subtype":"Figure"},"ticker":{"type":"BasicTicker","id":"0c370e006eee88622c1427792bfd1dce"}}},{"type":"LinearAxis","id":"c0a984038f931a4bb61b82f5950ebdd3","attributes":{"id":"c0a984038f931a4bb61b82f5950ebdd3","tags":[],"plot":{"type":"Plot","id":"27bc7318b883398b485e5d5454f73cb8","subtype":"Figure"},"axis_label":"totalSSCU","formatter":{"type":"BasicTickFormatter","id":"96585b0acbbe5572405707653f561878"},"ticker":{"type":"BasicTicker","id":"19d09315bc7f8407cbf9a2a3df32dd02"},"visible":true,"axis_label_text_font_size":"12pt"}},{"type":"BasicTickFormatter","id":"96585b0acbbe5572405707653f561878","attributes":{"id":"96585b0acbbe5572405707653f561878","tags":[]}},{"type":"BasicTicker","id":"19d09315bc7f8407cbf9a2a3df32dd02","attributes":{"id":"19d09315bc7f8407cbf9a2a3df32dd02","tags":[],"num_minor_ticks":5}},{"type":"Grid","id":"6f0753735467e680d8ec3fc94b152f11","attributes":{"id":"6f0753735467e680d8ec3fc94b152f11","tags":[],"dimension":1,"plot":{"type":"Plot","id":"27bc7318b883398b485e5d5454f73cb8","subtype":"Figure"},"ticker":{"type":"BasicTicker","id":"19d09315bc7f8407cbf9a2a3df32dd02"}}}]}}},"debug":false},"evals":[],"jsHooks":[]}</script>
 
 
 

diff --git a/03-r-format/knitr/3-tidyr.html b/03-r-format/knitr/3-tidyr.html
@@ -641,7 +641,7 @@ df2 %&gt;% separate(y, c("City", "State"), sep = ", ")
 ---
 
 class: inverse
-## Your Turn (5 min)
+## Your Turn
 
 The Iowa Data Portal is a wealth of information on and about the State of Iowa. 
 
@@ -670,7 +670,7 @@ no Messy 1? - problems of type Messy 1 are typically hard to detect and often up
 ---
 class: inverse
 
-## Your Turn (10 mins)
+## Your Turn
 
 During the 1870 census data on people's occupation was collected. The data [occupation-1870](../data/occupation-1870.csv) contains state-level aggregates of occupation by gender.
 
@@ -711,10 +711,10 @@ today() - days(2)
 ```
 
 ```
-## [1] "2022-01-09 21:56:33 CST"
+## [1] "2022-01-11 23:19:14 CST"
+## [1] "2022-01-11"
+## [1] "2022-01-12 03:19:14 CST"
 ## [1] "2022-01-09"
-## [1] "2022-01-10 01:56:33 CST"
-## [1] "2022-01-07"
 ```
 
 ---
@@ -745,7 +745,7 @@ The flights dataset contains information on over 300,000 flights that departed f
 
 
 ```r
-flights &lt;- read.csv("http://heike.github.io/rwrks/03-r-format/data/flights.csv")
+flights &lt;- read.csv("http://srvanderplas.github.io/rwrks/03-r-format/data/flights.csv")
 ```
 
 
@@ -771,7 +771,7 @@ class: inverse
 
 
 ```r
-billboard &lt;- read.csv("http://heike.github.io/rwrks/03-r-format/data/billboard.csv")
+billboard &lt;- read.csv("http://srvanderplas.github.io/rwrks/03-r-format/data/billboard.csv")
 ```
     
 - Use `tidyr` to convert this data into a long format.

diff --git a/03-r-format/knitr/4-joining.html b/03-r-format/knitr/4-joining.html
@@ -433,7 +433,30 @@ class: inverse
 
 - Load the `Lahman` package into your R session.
 - Join (relevant pieces of) the `Master` data set and the `HallOfFame` data.
-- For the `ggplot2` chart label all last attempts of individuals with 15 or more attempts. Make sure to deal with missing values appropriately.
+- Output the names of individuals with 15 or more attempts ("times" in the data set). Make sure to deal with missing values appropriately.
+
+---
+## Solution
+
+```r
+Voted &lt;- HallOfFame %&gt;% filter(!is.na(ballots)) %&gt;% 
+  group_by(playerID) %&gt;% arrange(yearID) %&gt;% 
+  mutate( attempt = order(yearID))
+
+Voted &lt;- left_join(Voted, Master %&gt;% select(playerID, nameFirst, nameLast), 
+                   by = "playerID") %&gt;% filter(attempt &gt; 15)
+Names &lt;- Voted %&gt;% mutate(FullName = paste(nameFirst, nameLast))
+Names$FullName %&gt;% unique()
+```
+
+```
+##  [1] "Rabbit Maranville" "Dazzy Vance"       "Ray Schalk"       
+##  [4] "Ross Youngs"       "Edd Roush"         "Zack Wheat"       
+##  [7] "Hank Gowdy"        "Eppa Rixey"        "Hack Wilson"      
+## [10] "Red Faber"         "Red Ruffing"       "Phil Rizzuto"     
+## [13] "Pee Wee Reese"     "Mickey Vernon"     "Don Newcombe"     
+## [16] "Al Dark"
+```
 
 
 &lt;!---

diff --git a/03-r-format/knitr/1-Files.html b/03-r-format/knitr/1-Files.html
@@ -36,7 +36,7 @@ class: center, middle, inverse, title-slide
 
 ```r
 library(readr)
-midwest &lt;- read_csv("http://heike.github.io/rwrks/03-r-format/data/midwest.csv")
+midwest &lt;- read_csv("http://srvanderplas.github.io/rwrks/03-r-format/data/midwest.csv")
 head(midwest)
 ```
 
@@ -81,10 +81,10 @@ Hint: Visit http://heike.github.io/rwrks/03-r-format/data/midwest.csv to downloa
 
 ```r
 midwest_names &lt;- read_csv(
-  "http://heike.github.io/rwrks/03-r-format/data/midwest.csv", n_max= 2, 
+  "http://srvanderplas.github.io/rwrks/03-r-format/data/midwest.csv", n_max= 2, 
   col_names = FALSE)
 midwest_data &lt;- read_csv(
-  "http://heike.github.io/rwrks/03-r-format/data/midwest.csv", 
+  "http://srvanderplas.github.io/rwrks/03-r-format/data/midwest.csv", 
   skip = 2, col_names = FALSE)
 ```
 
